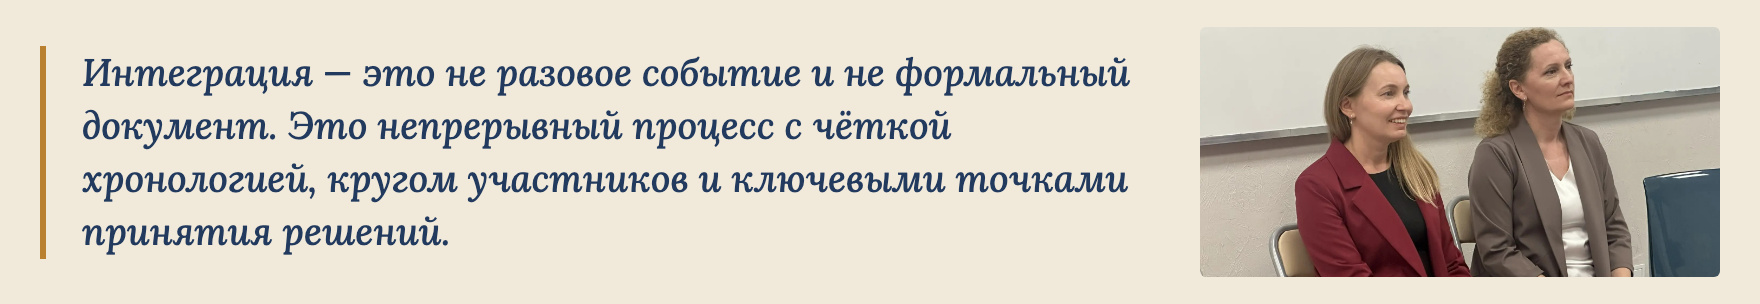
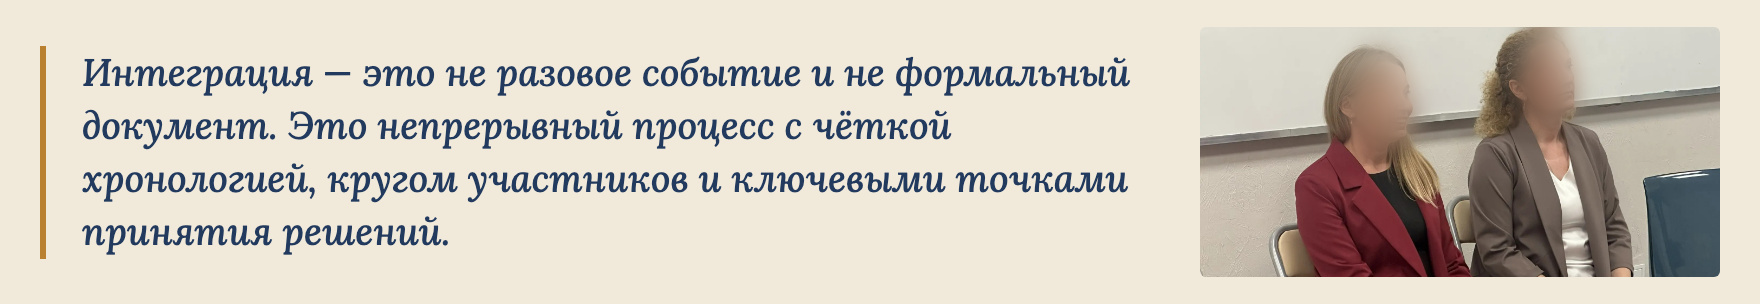
Разборы для Pinterest и политика конфиденциальности

Changed region(s): [[0.75, 0.148, 0.8125, 0.5033], [0.8438, 0.0888, 0.9062, 0.3849]]

diff --git a/razbory/slaydy-s-foto/index.html b/razbory/slaydy-s-foto/index.html
@@ -82,10 +82,10 @@
 
   <figure class="fig fig--wide" id="golovy">
     <div class="bs">
-      <div><span class="bs__label bs__label--do">Было</span><img src="img/anna-bylo.jpg" width="1600" height="900" loading="lazy" data-pin-nopin="true" alt="Образец плохого слайда: три фото в квадратах, зал сплющен, у двух участниц срезаны головы, белая надпись поверх лиц"></div>
-      <div><span class="bs__label bs__label--posle">Стало</span><img src="img/anna-stalo.jpg" width="1600" height="900" loading="lazy" data-pin-nopin="true" alt="Те же три фото лентой: снимки целиком, одной высоты, сверху заголовок Живое общение вместо лекции, под каждым кадром подпись"></div>
+      <div><span class="bs__label bs__label--do">Было</span><img src="img/anna-bylo.jpg" width="1600" height="900" loading="lazy" data-pin-nopin="true" alt="Образец плохого слайда: три фото в квадратах, зал сплющен, у двух участниц срезаны головы, белая надпись поверх лиц; лица размыты"></div>
+      <div><span class="bs__label bs__label--posle">Стало</span><img src="img/anna-stalo.jpg" width="1600" height="900" loading="lazy" data-pin-nopin="true" alt="Те же три фото лентой: снимки целиком, одной высоты, сверху заголовок Живое общение вместо лекции, под каждым кадром подпись; лица размыты"></div>
     </div>
-    <figcaption>Слева рамки отрезали людям головы, а надпись легла на лица. Справа те же снимки целиком и с подписями. Образец на настоящих фото со встреч Анны Комарницькой, с её разрешения.</figcaption>
+    <figcaption>Слева рамки отрезали людям головы, а надпись легла на лица. Справа те же снимки целиком и с подписями. Образец на настоящих фото со встреч Анны Комарницькой, с её разрешения. Лица на фотографиях размыты.</figcaption>
   </figure>
 
   <p>Знакомо: «вставила фото, а на слайде у всех отрезаны макушки»? Я фотограф и вижу такое сразу. Виноват не шаблон, а рамка, которая режет людей.</p>
@@ -174,8 +174,8 @@
     <li>Три легли лентой под дорожной картой в конце.</li>
   </ul>
   <figure class="fig fig--wide">
-    <img src="img/anna-slajd-02-citata.jpg" width="1760" height="304" loading="lazy" data-pin-nopin="true" alt="Фрагмент слайда: слева крупная мысль доклада об интеграции как непрерывном процессе, справа фото двух участниц встречи целиком">
-    <figcaption>Фрагмент настоящего слайда из доклада: одно фото рядом с главной мыслью, текст не на лицах. С разрешения Анны.</figcaption>
+    <img src="img/anna-slajd-02-citata.jpg" width="1760" height="304" loading="lazy" data-pin-nopin="true" alt="Фрагмент слайда: слева крупная мысль доклада об интеграции как непрерывном процессе, справа фото двух участниц встречи целиком, лица размыты">
+    <figcaption>Фрагмент настоящего слайда из доклада: одно фото рядом с главной мыслью, текст не на лицах. С разрешения Анны, лица на фото размыты.</figcaption>
   </figure>
   <p><strong>Что получилось.</strong> 17 слайдов со схемами и фотографиями и памятка для зала. Успели к докладу.</p>
   <blockquote class="quote">«У меня завтра конференция, уровень высокий, а у меня один доклад, и получилось так красиво!»<footer>Анна Комарницькая, психолог.<span data-esli="prezentaciya-psihologa"> <a href="/razbory/prezentaciya-psihologa/#keys">Весь отзыв и заказ по шагам</a></span></footer></blockquote>

diff --git a/privacy/index.html b/privacy/index.html
@@ -69,7 +69,7 @@
   <p>Вы можете узнать, какие ваши данные у меня есть, попросить их исправить или удалить, отозвать согласие (статьи 9 и 14 Федерального закона № 152-ФЗ «О персональных данных»). Напишите на <a href="mailto:joyka08@mail.ru">joyka08@mail.ru</a> или в Telegram <a href="https://t.me/alenaprasol">@alenaprasol</a>. Отвечаю в течение 10 рабочих дней, обычно в тот же день. Вы также можете обратиться в Роскомнадзор.</p>
 
   <h2>Картинки на сайте</h2>
-  <p>Примеры работ и фотографии со встреч показаны с разрешения заказчиков. Если вы узнали себя на фото и не хотите, чтобы оно было на сайте, напишите на почту из раздела «Кто отвечает за данные», уберу в течение суток. Образцы, помеченные словом «образец», придуманы для показа и чужих данных не содержат.</p>
+  <p>Примеры работ и фотографии со встреч показаны с разрешения заказчиков. Лица на фотографиях размыты. Если вы узнали себя на фото и не хотите, чтобы оно было на сайте, напишите на почту из раздела «Кто отвечает за данные», уберу в течение суток. Образцы, помеченные словом «образец», придуманы для показа и чужих данных не содержат.</p>
 
   <h2>Изменения</h2>
   <p>Новая версия политики появится на этой странице с новой датой.</p>

diff --git a/razbory/prezentaciya-psihologa/index.html b/razbory/prezentaciya-psihologa/index.html
@@ -138,8 +138,8 @@
     <li><strong>Её слова и её контакты.</strong> Формулировку для второго слайда, QR-коды и телефон центра поддержки Анна досылала ночью. Всё встало как есть.</li>
   </ol>
   <figure class="fig">
-    <img src="img/anna-slajd-17-qr.jpg" width="680" height="398" loading="lazy" style="max-width:480px" alt="Два QR-кода с последнего слайда: образовательный центр Наследие и Связаться с Анной, под каждым адрес страницы ВКонтакте">
-    <figcaption>QR-коды с последнего слайда: центр, где работает Анна, и её страница. Встали так, как она прислала.</figcaption>
+    <img src="img/anna-slajd-17-qr.jpg" width="680" height="368" loading="lazy" style="max-width:480px" alt="Фрагмент последнего слайда: две карточки под QR-коды с подписями ОЦ Наследие и Связаться с Анной, сами коды скрыты">
+    <figcaption>Место QR-кодов на последнем слайде: центр, где работает Анна, и её страница. В докладе коды рабочие, здесь они скрыты.</figcaption>
   </figure>
   <ol class="shagi" start="9">
     <li><strong>Сделали памятку, о которой не просили.</strong> Лист A5 для семей: что нормально в первые месяцы, когда пора к специалисту, куда звонить.</li>
